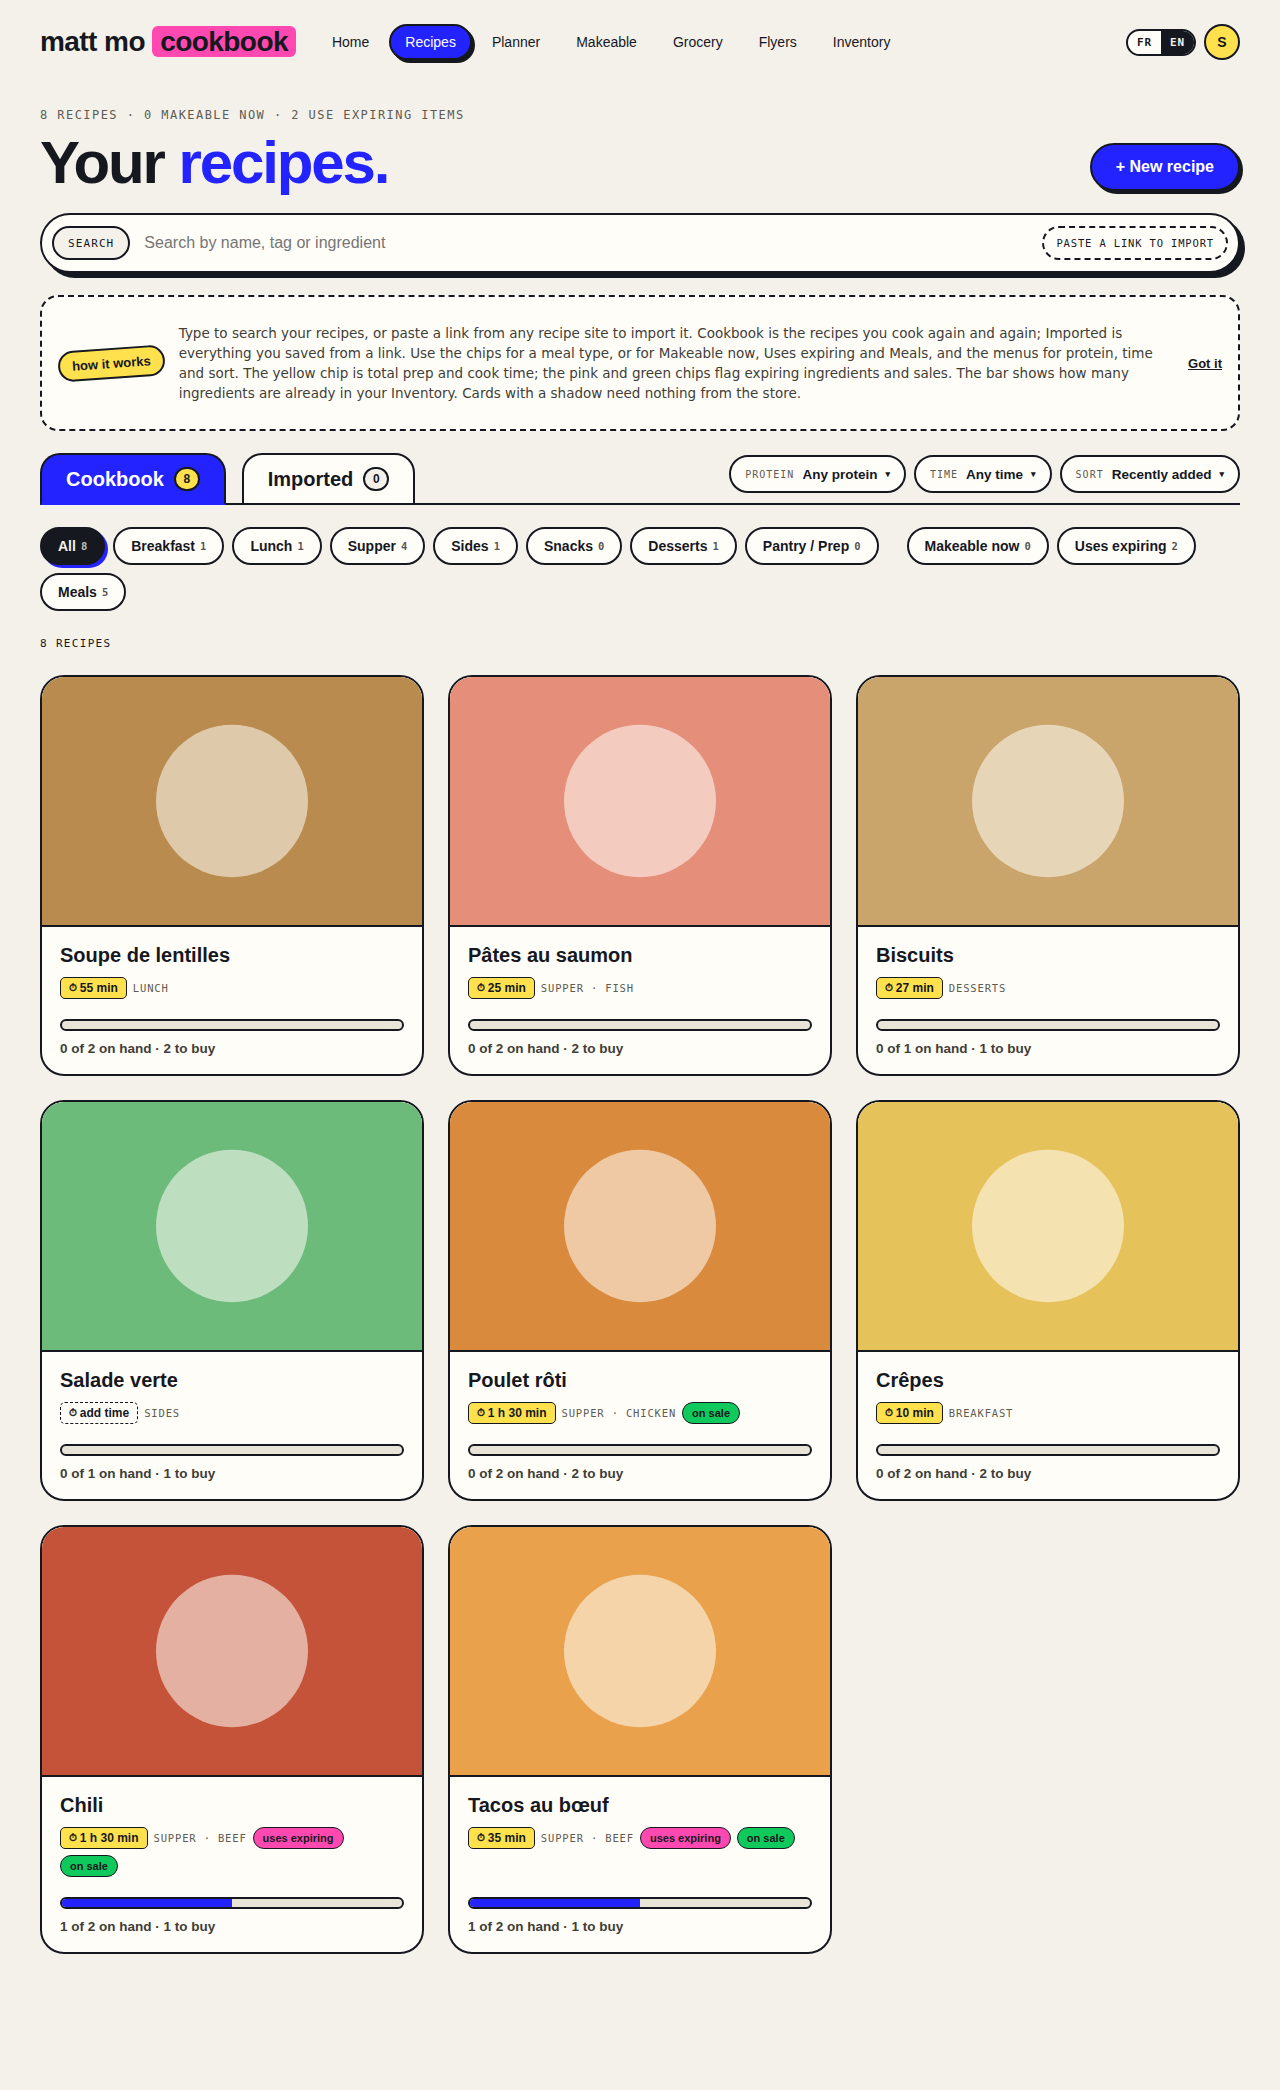
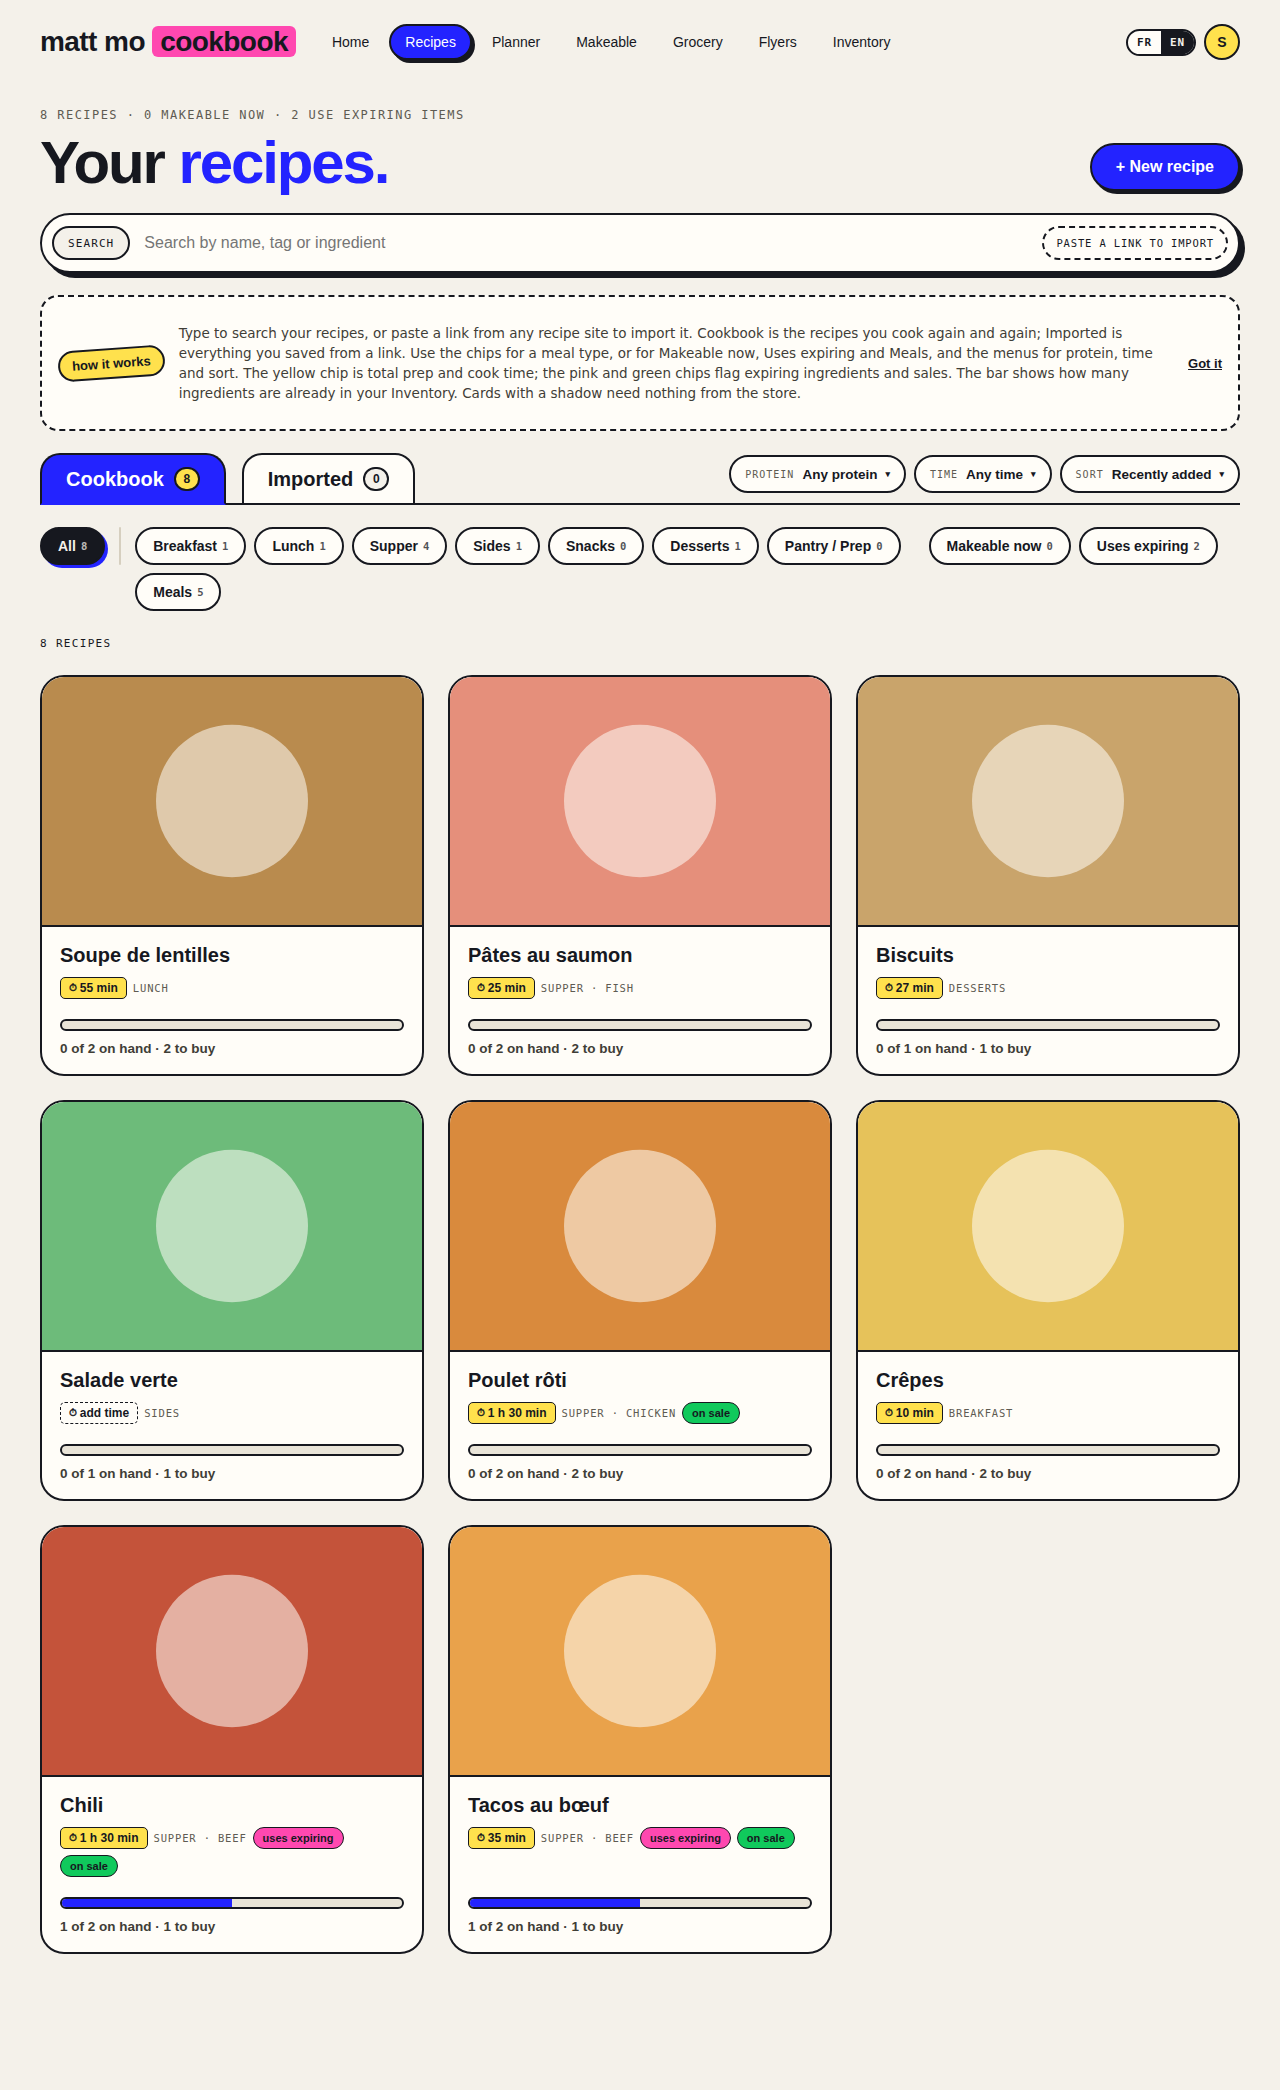
Recipes on desktop: All on its own, then a rule, then the meal types
The meal-type chips now look like the Flyers categories: the All chip stands
alone, a thin rule follows, and the meal types and the extra chips (Makeable
now, Uses expiring, Meals) wrap in their own block beside it.

Claude-Session: https://claude.ai/code/session_01P6gKk3TQsEzWZVFPMy5Arm

Changed region(s): [[0.0938, 0.2488, 0.9375, 0.311], [0.0312, 0.2799, 0.0625, 0.311]]

diff --git a/client/src/components/RecipesDesktop.jsx b/client/src/components/RecipesDesktop.jsx
@@ -385,7 +385,8 @@ export function RecipesDesktop({
       </div>
 
       <div className="rv2-chips" role="group" aria-label={t("recipes.d.mealAria")}>
-        {MEAL_CHIPS.map((c) => (
+        {/* "All" stands on its own, then a rule, then the meal types and the extra chips, like the Flyers. */}
+        {[MEAL_CHIPS[0]].map((c) => (
           <button
             key={c.id}
             type="button"
@@ -397,19 +398,34 @@ export function RecipesDesktop({
             <span className="riso-filter-chip-count">{chipCount(c.id)}</span>
           </button>
         ))}
-        <span className="rv2-chips-gap" aria-hidden="true" />
-        {EXTRA_CHIPS.map((c) => (
-          <button
-            key={c.id}
-            type="button"
-            className={`riso-filter-chip rv2-chip${filter === c.id ? " active" : ""}`}
-            aria-pressed={filter === c.id}
-            onClick={() => onFilterChange(c.id)}
-          >
-            {c.label}
-            <span className="riso-filter-chip-count">{chipCount(c.id)}</span>
-          </button>
-        ))}
+        <span className="rv2-chips-rule" aria-hidden="true" />
+        <div className="rv2-chips-cats">
+          {MEAL_CHIPS.slice(1).map((c) => (
+            <button
+              key={c.id}
+              type="button"
+              className={`riso-filter-chip rv2-chip${filter === c.id ? " active" : ""}`}
+              aria-pressed={filter === c.id}
+              onClick={() => onFilterChange(c.id)}
+            >
+              {c.label}
+              <span className="riso-filter-chip-count">{chipCount(c.id)}</span>
+            </button>
+          ))}
+          <span className="rv2-chips-gap" aria-hidden="true" />
+          {EXTRA_CHIPS.map((c) => (
+            <button
+              key={c.id}
+              type="button"
+              className={`riso-filter-chip rv2-chip${filter === c.id ? " active" : ""}`}
+              aria-pressed={filter === c.id}
+              onClick={() => onFilterChange(c.id)}
+            >
+              {c.label}
+              <span className="riso-filter-chip-count">{chipCount(c.id)}</span>
+            </button>
+          ))}
+        </div>
       </div>
 
       <div className="rv2-countline">

diff --git a/client/src/index.css b/client/src/index.css
@@ -17150,6 +17150,25 @@ body.no-select {
 
 .rv2-chips {
   display: flex;
+  align-items: flex-start;
+  gap: 14px;
+}
+
+/* A thin rule between All and the rest, as long as the first row of chips */
+.rv2-chips-rule {
+  flex: none;
+  align-self: flex-start;
+  width: 2px;
+  height: 38px;
+  border-radius: 1px;
+  background: var(--riso-dash);
+}
+
+/* The meal types and the extra chips wrap in their own block beside All */
+.rv2-chips-cats {
+  flex: 1;
+  min-width: 0;
+  display: flex;
   flex-wrap: wrap;
   align-items: center;
   gap: 8px;
